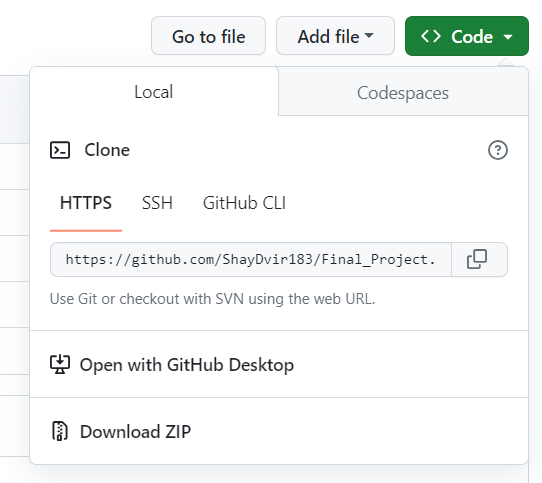
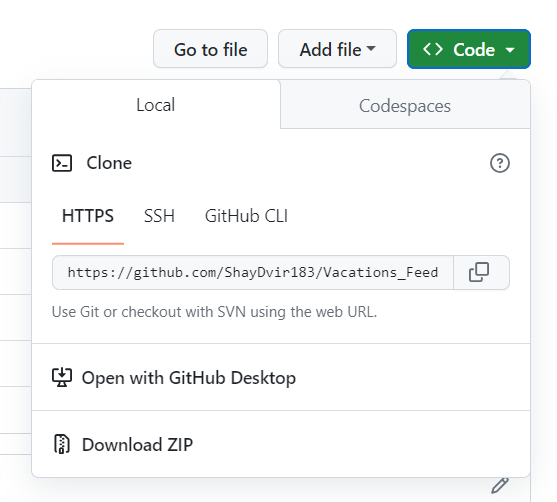
update readme

diff --git a/README.md b/README.md
@@ -35,7 +35,7 @@ The backend of this project is developed using Node.js along with the Express fr
 
      git init
 
-     git clone https://github.com/ShayDvir183/Final_Project.git
+     git clone https://github.com/ShayDvir183/Vacations_Feed.git
 
 <h4>Now You Have Pooking On Your Device</h4>
 
@@ -82,5 +82,3 @@ Enjoy</p>
 
 <h3 style="color: red;">For Best User Experience -<br/> Admin User-Name Is : shayd<br/> 
 Password Is : 1 </h3>
-
-<!-- ADD INSTRUCTIONS FOR STARTING THE PROJECT GOOD JOB MAN YOUR GOING TO BE A FATHER !!!!!!!!! -->
